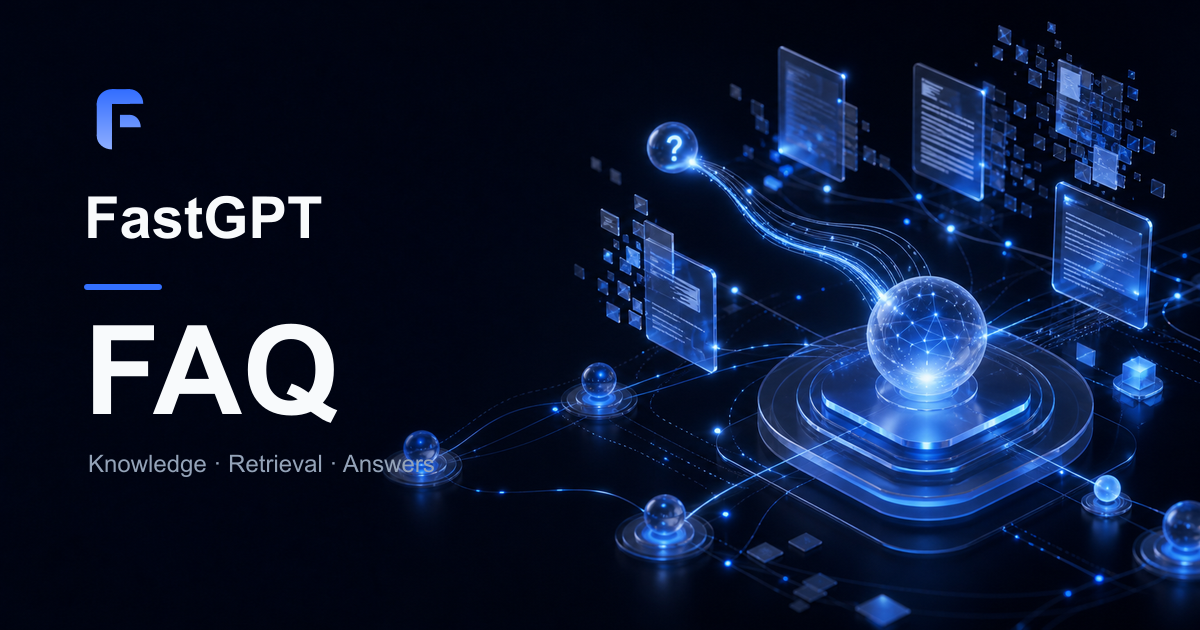
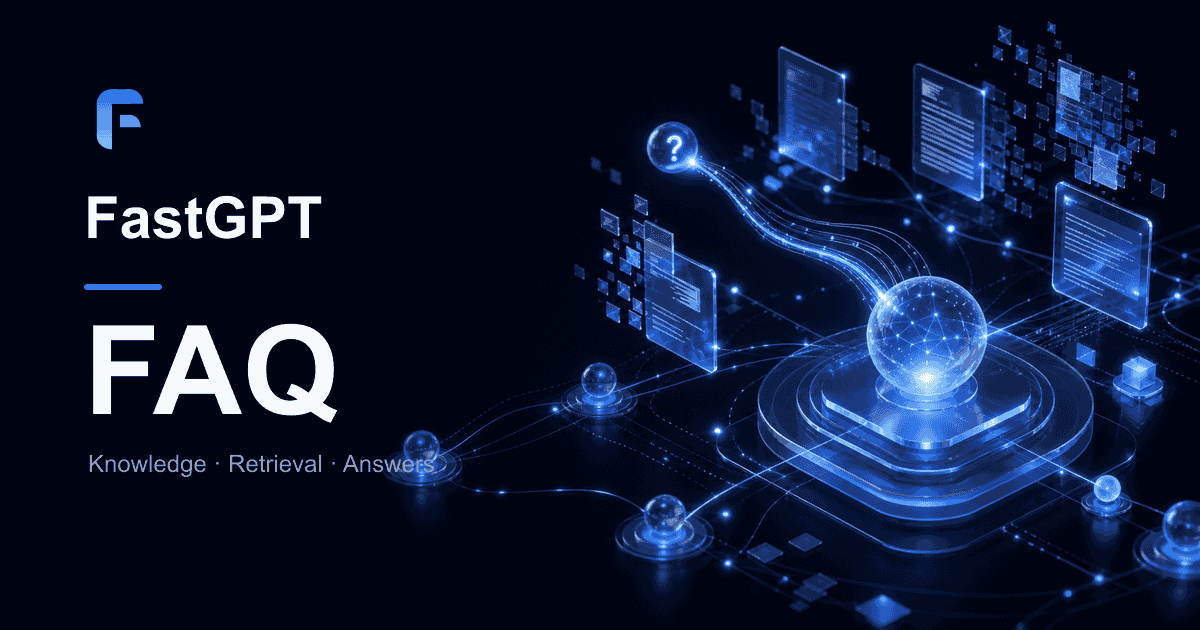
perf: compress FAQ social preview

diff --git a/scripts/verify-p0.js b/scripts/verify-p0.js
@@ -8,6 +8,7 @@ const outDir = path.join(rootDir, 'out');
 const baseUrl = (process.env.NEXT_PUBLIC_HOME_URL || 'https://fastgpt.io').replace(/\/$/, '');
 const socialImageUrl = `${baseUrl}/faq-social-preview.png`;
 const faqId = 'Why-are-enterprises-paying-more';
+const maxSocialImageBytes = 200_000;
 
 function resolveHtml(route) {
   const relativeRoute = route.replace(/^\//, '');
@@ -49,10 +50,22 @@ function verifyFaqPage(route) {
 
 async function verifyImage() {
   const imagePath = path.join(rootDir, 'public', 'faq-social-preview.png');
+  const exportedImagePath = path.join(outDir, 'faq-social-preview.png');
   const metadata = await sharp(imagePath).metadata();
+  const { size } = fs.statSync(imagePath);
 
+  assert(fs.existsSync(exportedImagePath), 'Missing exported FAQ social image');
   assert.equal(metadata.width, 1200, 'FAQ social image width must be 1200');
   assert.equal(metadata.height, 630, 'FAQ social image height must be 630');
+  assert(
+    size < maxSocialImageBytes,
+    `FAQ social image must be smaller than ${maxSocialImageBytes} bytes`
+  );
+  assert.equal(
+    fs.statSync(exportedImagePath).size,
+    size,
+    'Exported FAQ social image must match the source asset'
+  );
 }
 
 function verifyNginxHeaders() {
